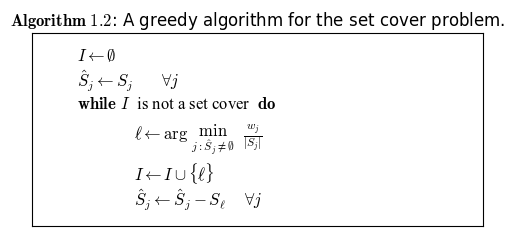
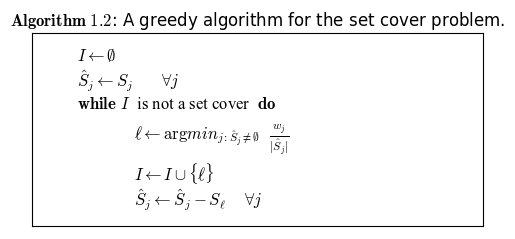
add: fact 1.10 image figure, mod: minor modifications for set covers

Changed region(s): [[0.3417, 0.4979, 0.5592, 0.6444]]

diff --git a/approximation_algorithms/chapter_01/1.6/convex_hull.py b/approximation_algorithms/chapter_01/1.6/convex_hull.py
@@ -1,0 +1,58 @@
+from matplotlib import pyplot as plt
+from shapely.geometry import MultiPoint
+from descartes.patch import PolygonPatch
+import numpy as np
+
+
+def gen_sequences(n=9, seed=5):
+    np.random.seed(seed)
+    return (np.random.rand(n), np.random.rand(n))
+
+
+def plot_config():
+    plt.gca().set_aspect('equal')
+    plt.gca().set_xlim(-.1, 1.1)
+    plt.gca().set_ylim(-.1, 1.1)
+    plt.xlabel('b')
+    plt.ylabel('a')
+    title_string = 'Fact 1.10:   '
+    title_string += r'$\min_i\ \frac{a_i}{b_i} \ \ \leq\ \ $'
+    title_string += r'$\frac{\sum_i\ a_i}{\sum_i\ b_i}$'
+    plt.title(title_string, y=1.05)
+
+
+def plot_convex_hull(x, y):
+    P = MultiPoint(zip(x, y))
+    plt.gca().scatter(x, y, marker='o', color='#6699cc')
+    patch = PolygonPatch(P.convex_hull, facecolor='#6699cc',
+                         edgecolor='#6699cc', alpha=0.5, zorder=-2)
+    plt.gca().add_patch(patch)
+
+
+def plot_slopes(xdata, ydata):
+    xave, yave = np.average(xdata), np.average(ydata)
+    plt.gca().scatter([xave], [yave], color='r', zorder=0)
+
+    amin = np.argmin([yi / xi for xi, yi in zip(xdata, ydata)])
+    amax = np.argmax([yi / xi for xi, yi in zip(xdata, ydata)])
+
+    x = np.array(plt.gca().get_xlim())
+    plt.plot(x, (yave / xave) * x, zorder=-1, label='average', linestyle='--')
+    plt.plot(x, (ydata[amin] / xdata[amin]) * x, zorder=-1, label='min', linestyle='--')
+    plt.plot(x, (ydata[amax] / xdata[amax]) * x, zorder=-1, label='max', linestyle='--')
+
+    plt.legend(loc='best')
+
+if __name__ == '__main__':
+    a, b = gen_sequences()
+    np.set_printoptions(precision=3)
+    print a
+    print
+    print b
+    plot_config()
+    plot_convex_hull(b, a)
+    plot_slopes(b, a)
+
+    plt.savefig('fact110_2d_img.png', bbox_inches='tight')
+    plt.tight_layout()
+    plt.show()

diff --git a/approximation_algorithms/chapter_01/1.6/greedy_pseudo_code.py b/approximation_algorithms/chapter_01/1.6/greedy_pseudo_code.py
@@ -17,7 +17,7 @@ def greedy():
     s = r'${\bf while} \ I \ $ is not a set cover $\ {\bf do}$'
     plt.gca().text(2.0, 3.0 - 0.72, s, **fn)
 
-    s = r'$\ell \leftarrow \arg\ \min_{j: \hat{S}_j \neq \emptyset} \ \ \frac{w_j}{|S_j|}$'
+    s = r'$\ell \leftarrow \argmin_{j: \hat{S}_j \neq \emptyset} \ \ \frac{w_j}{|\hat{S}_j|}$'
     plt.gca().text(4.5, 3.0 - 1.2, s, **fn)
 
     s = r'$I \leftarrow I \cup \{\ell\}$'
